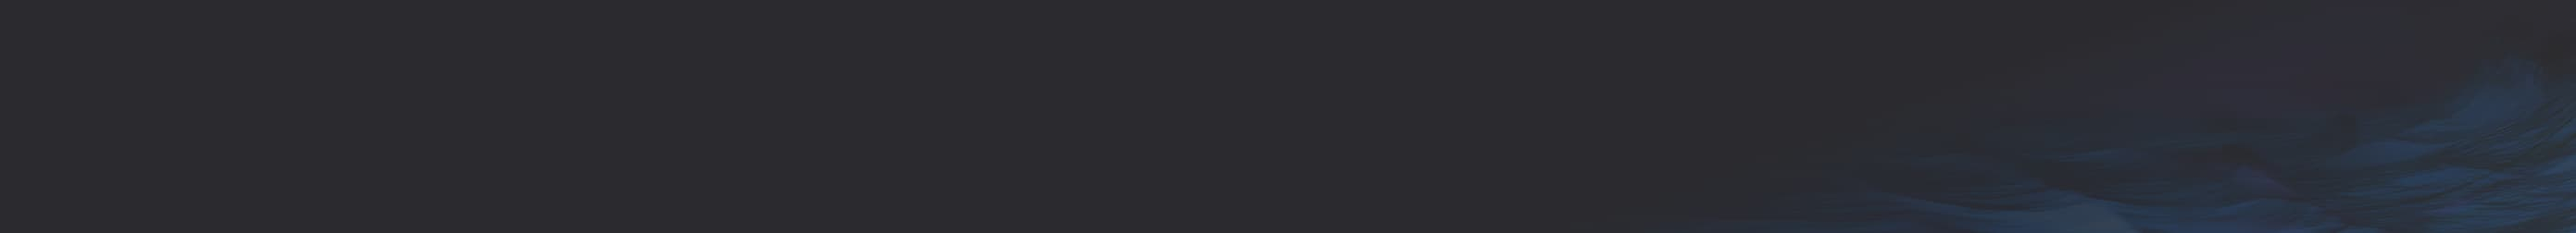
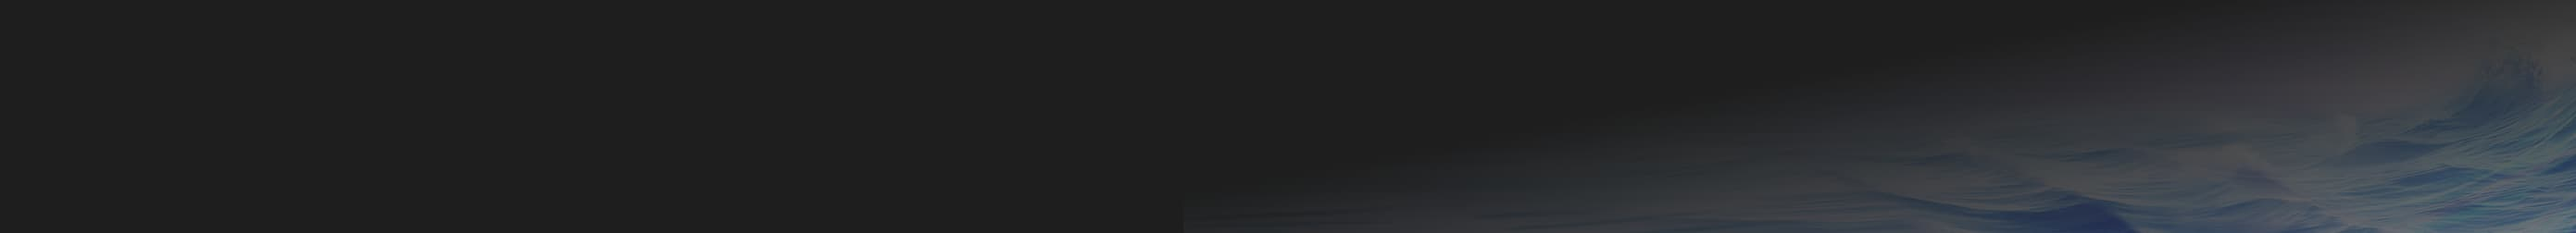
fix: 修改devday2024页面检视问题

Changed region(s): [[0.6801, 0.4167, 1.0, 1.0], [0.9892, 0.25, 1.0, 0.3611], [0.8965, 0.4444, 0.9583, 0.4722]]

diff --git a/app/.vitepress/src/views/summit/devday2024/components/SummitBanner.vue b/app/.vitepress/src/views/summit/devday2024/components/SummitBanner.vue
@@ -1,4 +1,6 @@
 <script setup lang="ts">
+import IconArrowRight from '~icons/app/icon-arrow-right.svg';
+
 defineProps({
   bannerData: {
     type: Object,
@@ -8,18 +10,33 @@ defineProps({
 });
 </script>
 <template>
-  <a :href="bannerData.signUpHref" target="_blank" rel="noopener noreferrer">
-    <div class="banner">
-      <div
-        class="summit-banner-pc summit-banner"
-        :style="{ backgroundImage: `url(${bannerData.bg})` }"
-      ></div>
-      <div
-        class="summit-banner-mo summit-banner"
-        :style="{ backgroundImage: `url(${bannerData.bgMo})` }"
-      ></div>
+  <!-- <a :href="bannerData.signUpHref" target="_blank" rel="noopener noreferrer"> -->
+  <div class="banner">
+    <div
+      class="summit-banner-pc summit-banner"
+      :style="{ backgroundImage: `url(${bannerData.bg})` }"
+    ></div>
+    <div
+      class="summit-banner-mo summit-banner"
+      :style="{ backgroundImage: `url(${bannerData.bgMo})` }"
+    ></div>
+    <div class="banner-main">
+      <div class="banner-text">
+        <h2>{{ bannerData.slogan }}</h2>
+        <h3>{{ bannerData.title }}</h3>
+        <h4>{{ bannerData.subtitle }}</h4>
+        <a :href="bannerData.signUpHref" target="_blank" rel="noopener noreferrer">
+          <OButton animation class="home-banner-btnimport">
+            {{ bannerData.signUpTitle }}
+            <template #suffixIcon
+              ><OIcon><IconArrowRight /></OIcon
+            ></template>
+          </OButton>
+        </a>
+      </div>
     </div>
-  </a>
+  </div>
+  <!-- </a> -->
 </template>
 <style scoped lang="scss">
 @include in-dark {
@@ -51,6 +68,88 @@ defineProps({
     @media (max-width: 768px) {
       width: 100%;
       display: block;
+    }
+  }
+
+  .banner-main {
+    position: absolute;
+    width: 100%;
+    max-width: 1416px;
+    height: 100%;
+    top: 0;
+    left: 50%;
+    transform: translateX(-50%);
+    @media (max-width: 1439px) {
+      padding: 0 24px;
+    }
+    @media (max-width: 1100px) {
+      padding: 0 16px;
+    }
+  }
+  .banner-text {
+    width: 970px;
+    height: 100%;
+    display: flex;
+    flex-direction: column;
+    align-items: center;
+    justify-content: center;
+    margin-left: auto;
+    @media (max-width: 767px) {
+      width: 100%;
+    }
+    h2 {
+      font-size: 48px;
+      font-weight: 500;
+      line-height: 46px;
+      @media (max-width: 767px) {
+        font-size: 22px;
+        line-height: 32px;
+      }
+    }
+    h3 {
+      margin-top: var(--o-spacing-h8);
+      font-size: var(--o-font-size-h4);
+      line-height: var(--o-line-height-h4);
+      font-weight: normal;
+      @media (max-width: 767px) {
+        margin-top: var(--o-spacing-h10);
+        font-size: var(--o-font-size-tip);
+        line-height: var(--o-line-height-tip);
+      }
+    }
+    h4 {
+      font-size: var(--o-font-size-h8);
+      line-height: var(--o-line-height-h8);
+      font-weight: normal;
+      margin-top: 20px;
+      @media (max-width: 767px) {
+        font-size: var(--o-font-size-tip);
+        line-height: var(--o-line-height-tip);
+        margin-top: var(--o-spacing-h10);
+      }
+    }
+  }
+  a {
+    margin-top: var(--o-spacing-h4);
+  }
+  .home-banner-btnimport {
+    --o-button-padding: 11px 19px 11px 27px;
+    --o-color-brand1: var(--o-color-text1);
+    --o-color-brand2: var(--o-color-text1);
+  }
+  @media (max-width: 767px) {
+    .banner-text {
+      justify-content: flex-end;
+      padding-bottom: var(--o-spacing-h5);
+    }
+    a {
+      margin-top: var(--o-spacing-h6);
+    }
+    .home-banner-btnimport {
+      --o-button-padding: 6px 10px;
+      --o-button-font-size: var(--o-font-size-tip);
+      --o-button-line-height: var(--o-line-height-tip);
+      --o-button-icon-font-size: var(--o-font-size-h8);
     }
   }
 }

diff --git a/app/.vitepress/src/views/summit/devday2024/components/SummitIntro.vue b/app/.vitepress/src/views/summit/devday2024/components/SummitIntro.vue
@@ -15,7 +15,7 @@ const isLight = computed(() => (commonStore.theme === 'light' ? true : false));
 </script>
 <template>
   <div class="summit-intro">
-    <div class="title-box">
+    <div class="title-box" :class="{'title-box-dark': !isLight}">
       <p class="title-bg">{{ introData.titleBg }}</p>
       <p class="title">{{ introData.title }}</p>
     </div>
@@ -29,6 +29,7 @@ const isLight = computed(() => (commonStore.theme === 'light' ? true : false));
 <style scoped lang="scss">
 .list {
   margin-top: var(--o-spacing-h2);
+  margin-bottom: 44px;
   .item {
     font-size: var(--o-font-size-h7);
     color: var(--o-color-text1);
@@ -43,6 +44,7 @@ const isLight = computed(() => (commonStore.theme === 'light' ? true : false));
   }
   @media (max-width: 767px) {
     margin-top: var(--o-spacing-h5);
+    margin-bottom: 31px;
   }
 }
 </style>

diff --git a/app/.vitepress/src/views/summit/devday2024/components/SummitAgenda.vue b/app/.vitepress/src/views/summit/devday2024/components/SummitAgenda.vue
@@ -18,7 +18,7 @@ const isLight = computed(() => (commonStore.theme === 'light' ? true : false));
 </script>
 <template>
   <div class="summit-agenda">
-    <div class="title-box">
+    <div class="title-box" :class="{'title-box-dark': !isLight}">
       <p class="title-bg">{{ agendaData.titleBg }}</p>
       <p class="title">{{ agendaData.title }}</p>
     </div>
@@ -66,6 +66,10 @@ const isLight = computed(() => (commonStore.theme === 'light' ? true : false));
       }
     }
     @media (max-width: 767px) {
+      .el-tabs__item {
+        padding-left: 0;
+        padding-right: 16px;
+      }
       .el-tabs__active-bar {
         width: 24px !important;
         margin-left: 16px;

diff --git a/app/.vitepress/src/views/summit/devday2024/components/SummitReview.vue b/app/.vitepress/src/views/summit/devday2024/components/SummitReview.vue
@@ -1,4 +1,6 @@
 <script lang="ts" setup>
+import { computed } from 'vue';
+import { useCommon } from '@/stores/common';
 
 defineProps({
   reviewData: {
@@ -8,11 +10,13 @@ defineProps({
   },
 });
 
+const commonStore = useCommon();
+const isLight = computed(() => (commonStore.theme === 'light' ? true : false));
 </script>
 
 <template>
   <div class="summit-review">
-    <div class="title-box">
+    <div class="title-box" :class="{'title-box-dark': !isLight}">
       <p class="title-bg">{{ reviewData.titleBg }}</p>
       <p class="title">{{ reviewData.title }}</p>
     </div>

diff --git a/app/.vitepress/src/views/summit/devday2024/components/SummitNow.vue b/app/.vitepress/src/views/summit/devday2024/components/SummitNow.vue
@@ -21,7 +21,7 @@ const jumpPage = (href: string) => {
 </script>
 <template>
   <div class="summit-now">
-    <div class="title-box">
+    <div class="title-box" :class="{'title-box-dark': !isLight}">
       <p class="title-bg">{{ nowData.titleBg }}</p>
       <p class="title">{{ nowData.title }}</p>
     </div>

diff --git a/app/.vitepress/src/views/summit/devday2024/data/index.ts b/app/.vitepress/src/views/summit/devday2024/data/index.ts
@@ -1,5 +1,5 @@
-import bannerBg from '../img/banner2.jpg';
-import bannerSummitMo from '../img/banner-mb.jpg';
+import bannerBg from '../img/bg.jpg';
+import bannerSummitMo from '../img/bgMo.jpg';
 import nowHoverImg from '../img/now-hover.jpg';
 
 export default {

diff --git a/app/.vitepress/src/views/summit/devday2024/TheDevday2024.vue b/app/.vitepress/src/views/summit/devday2024/TheDevday2024.vue
@@ -56,4 +56,9 @@ import summitData from './data';
     }
   }
 }
+:deep(.title-box-dark) {
+  .title-bg {
+    background-image: linear-gradient(to bottom, rgba(#b461f6, 0.4) 0, rgba(#7d32ea, 0) 100%);
+  }
+}
 </style>
